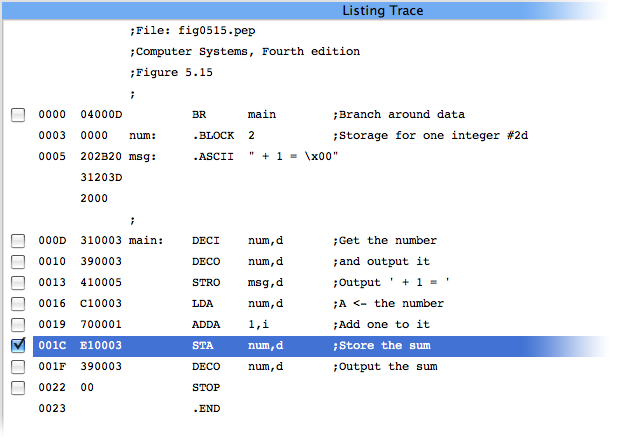
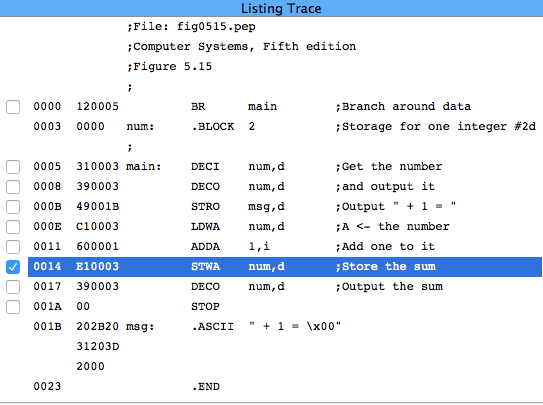
Help figures from Pep/8 to Pep/9.

diff --git a/help/debuggingprograms.html b/help/debuggingprograms.html
@@ -98,7 +98,7 @@ The Operand field in the CPU pane is enclosed in parentheses to emphasize the fa
 <img src="qrc:/help/images/operand.png" alt="operand" hspace=10 vspace=10>
 <p>
  The values in the CPU pane are the values <i>after</i> the instruction in the instruction specifier has executed.
- For example, the values in the above screenshots are the values after the first <code>CHARI</code> executes.
+ For example, the values in the above screenshots are the values after the first <code>LDBA</code> executes.
  In the von Neumann cycle, the program counter increments before the instruction executes.
  So, the value of the program counter is the address of the <i>next</i> instruction to execute.
  In the above screenshot, the program counter is 3, which is the address of the <i>next</i> instruction to execute,
@@ -106,25 +106,25 @@ The Operand field in the CPU pane is enclosed in parentheses to emphasize the fa
 <p>
  As you single step through the program, the Memory Dump pane highlights in red the bytes that have changed,
  and highlights in blue the bytes of the instruction as specified by the program counter.
- The following screenshot shows the Memory Dump pane after the first click of the Single Step button.
+ The following screenshot shows the Memory Dump pane after the second click of the Single Step button.
 <p>
-<img src="qrc:/help/images/fig0434memorydump.png" alt="fig0434memorydump" hspace=10 vspace=10>
+<img src="qrc:/help/images/fig0435memorydump.png" alt="fig0435memorydump" hspace=10 vspace=10>
 <p>
 Each line of the Memory Dump pane displays eight bytes, each byte represented as two hexadecimal digits.
 The address in the first column is the address of the first byte.
 The rightmost column shows the value of the bytes in the row displayed as ASCII characters.
 If the byte is a control character that cannot be displayed, the column depicts the value as a period.
 <p>
-The above screenshot highlights the byte at address 000D in red because the first <code>CHARI</code> instruction
+The above screenshot highlights the byte at address 0013 in red because the first <code>STBA</code> instruction
 input the letter <code>u</code> at that address.
-It hightlights the bytes starting at address 0003 in blue because that is the value of the program counter,
+It hightlights the bytes starting at address 0006 in blue because that is the value of the program counter,
 and those bytes are the instruction that will execute <i>next</i>.
 <p>
 The Memory Dump pane also highlights the top byte of the stack in magenta.
-The following screenshot from Figure 6.1 shows the stack starting at address FBCE just before the <code>ADDSP</code> executes.
+The following screenshot from Figure 6.1 shows the stack starting at address FB8E just before the <code>ADDSP</code> executes.
 <p>
 <img src="qrc:/help/images/fig0601.png" alt="fig0601" hspace=10 vspace=10>
-<p>
+<img src="qrc:/help/images/fig0601dump.png" alt="fig0601dump" hspace=10 vspace=10><p>
  <h4>Switching out of debug mode</h4>
  If you want the program to run to completion, click the Resume button.
  The program will run to completion and exit the debug mode.
@@ -152,7 +152,7 @@ has executed.
 In addition, the Trace pane highlights the instruction specified by the program counter, which is the <i>next</i> instruction
 to be executed.
 The following screenshot shows the Trace pane after five clicks of the Single Step button.
-The <code>LDA</code> instruction has just executed, and the <code>ADDA</code> instruction will execute next.
+The <code>LDWA</code> instruction has just executed, and the <code>ADDA</code> instruction will execute next.
 <p>
 <img src="qrc:/help/images/fig0515listingadda.png" alt="fig0515listingadda" hspace=10 vspace=10>
 <img src="qrc:/help/images/fig0515cpu.png" alt="fig0515cpu" hspace=10 vspace=10>
@@ -161,14 +161,14 @@ The <code>LDA</code> instruction has just executed, and the <code>ADDA</code> in
 <h4>Setting break points</h4>
  Each executable instruction in the Trace pane has a checkbox for setting a break point.
  The following screenshot shows the Trace pane for the program in Figure 5.15 before any statement has been executed.
- The programmer has set a breakpoint at the <code>STA</code> instruction.
+ The programmer has set a breakpoint at the <code>STWA</code> instruction.
 <p>
 <img src="qrc:/help/images/fig0515breakpoint.png" alt="fig0515breakpoint" hspace=10 vspace=10>
 <p>
  When the programmer clicks the Resume button, the program resumes executing until it gets to an instruction with a breakpoint
  or until completion if no breakpoint is encountered.
  The following screenshots show what happens when the Resume button is clicked.
- Note that the <code>STA</code> instruction will execute next if the programmer clicks the Single Step button at this point.
+ Note that the <code>STWA</code> instruction will execute next if the programmer clicks the Single Step button at this point.
  <p>
 <img src="qrc:/help/images/resume.png" alt="resume" hspace=10 vspace=10>
 <img src="qrc:/help/images/fig0515resumed.png" alt="fig0515resumed" hspace=10 vspace=10>
@@ -210,9 +210,9 @@ If your program does not include trace tags, the memory trace pane will not be v
 You can still use the debugger to single-step through your program and set break points.
 If it does include trace tags, but errors are detected in the tags, a blue warning will be issued.
 You can still run your program and use the debugger, but the memory trace pane will not be visible.
-The screenshot below shows what happens if you make an error in one of the trace tags in the program from Figure 5.26.
+The screenshot below shows what happens if you make an error in one of the trace tags in the program from Figure 5.27.
 <p>
-<img src="qrc:/help/images/fig518tracetagwarning.png" alt="fig518tracetagwarning" hspace=10 vspace=10>
+<img src="qrc:/help/images/fig0527tracetagwarning.png" alt="fig0527tracetagwarning" hspace=10 vspace=10>
 <p>
 If your program does include trace tags and they have no errors, the memory trace will automatically become visible
 below the listing trace pane.

diff --git a/help/writingtraphandlers.html b/help/writingtraphandlers.html
@@ -23,8 +23,8 @@ Reference: <i>Computer Systems</i>, Chapter 8, Section 8.2.
 <p>
  A trap instruction executes as if it were a single machine language instruction wired into the instruction set of the CPU.
  However, it really executes a <i>sequence</i> of machine language instructions that are initiated by the hardware trap mechanism.
- The Pep/9 operating system provides one nonunary trap instruction, <code>NOP</code> and four unary trap instructions,
- <code>NOP0</code>, <code>NOP1</code>, <code>NOP2</code>, and <code>NOP3</code>, so you can reprogram them to implement
+ The Pep/9 operating system provides two unary trap instructions, <code>NOP0</code> and <code>NOP1</code>, and five nonunary trap instructions,
+ <code>NOP</code>, <code>DECI</code>, <code>DECO</code>, <code>HEXO</code>, and <code>STRO</code>, so you can reprogram them to implement
   instructions of your own choosing.
 <p>
  <a name = "Topics">Topics:</a>
@@ -37,8 +37,8 @@ To modify the operating system for the problems in Chapter 8 of the text is a si
 <p>
 <h4>Step 1.</h4>
 Decide on your mnemonic for your new instruction.
-It will replace one of <code>NOP0</code>, <code>NOP1</code>, <code>NOP2</code>, <code>NOP3</code>,
-<code>NOP</code>, <code>DECI</code>, <code>DECO</code>, or <code>STRO</code>.
+It will replace one of <code>NOP0</code>, <code>NOP1</code>,
+<code>NOP</code>, <code>DECI</code>, <code>DECO</code>, <code>HEXO</code>, or <code>STRO</code>.
 Select the menu option System->Redefine Mnemonics to change the mnemonics of one of the instructions.
 The dialog box requires you to enter a mnemonic and its allowed addressing modes if it is nonunary.
 For example, change the mnemonic for the unary instruction <code>NOP0</code> to <code>ECHO</code>.
@@ -49,7 +49,7 @@ For example, change the mnemonic for the unary instruction <code>NOP0</code> to 
 In this Help system in the pane on the left, select Pep/9 Operating System, and then click the Copy to Source button.
 The default operating system will be copied to the Source Code pane.
 <p>
-<img src="qrc:/help/images/pep8oshelpsystem.png" alt="pep8oshelpsystem" hspace=10 vspace=10>
+<img src="qrc:/help/images/pep9oshelpsystem.png" alt="pep9oshelpsystem" hspace=10 vspace=10>
 <p>
 <h4>Step 3.</h4>
 Modify the trap handler part of the operating system to implement your new instruction.
@@ -93,17 +93,21 @@ The assembler also assumes that the ROM will be installed at the bottom of memor
 It therefore calculates tha addresses for the symbol table such that the last byte generated will have the address specified
 by the burn directive.
 <p>
-Pep/9 is a 16-bit computer, and can therfore access 2<sup>16</sup> = 64KB = 65,536 bytes of main memory.
+Pep/9 is a 16-bit computer, and can therfore access 2<sup>16</sup> = 64 KiB = 65,536 bytes of main memory.
 The Pep/9 operating system contains <code>.BURN 0xFFFF</code> because <code>0xFFFF</code> is the address of the 65,536th byte.
 <p>
 It is possible to install a smaller amount of memory in the Pep/9 system.
 Simply change the burn directive in the operating system to a smaller value.
 For example, you can change the burn directive to <code>.BURN 0x7FFF</code>, assemble and install the new OS,
-and the system will install only 32KB of memory instead of 64KB.
+and the system will install only 32 KiB of memory instead of 64 KiB.
 <p>
 <img src="qrc:/help/images/modifieddotburn.png" alt="modifieddotburn" hspace=10 vspace=10>
 <p>
 The trap handlers all run correctly, which you can trace in the Memory Dump pane.
+Following is the memory dump after the execution of a <code>DECI</code> trap instruction.
+A trap stores the ten bytes of the process control block on the system stack, indicated by the ten red bytes in the memory dump.
+Note that 31, the instruction specifier for <code>DECI</code>, at the bottom of the stack is at address 7C0E.
+With 64 KiB of memory installed, it would be at address FC0E.
 <p>
 <img src="qrc:/help/images/relocatedos.png" alt="relocatedos" hspace=10 vspace=10>
 <p>

diff --git a/help/assemblylanguage.html b/help/assemblylanguage.html
@@ -98,11 +98,11 @@ To execute the program select Build -> Execute from the menu.
 If your program assembles correctly but there is an error in your trace tags, a trace tag warning is displayed.
 For example, here is what happens if you make an error in one of the trace tags in the program from Figure 5.27.
 <p>
-<img src="qrc:/help/images/fig0519tracetagwarning.png" alt="fig0519tracetagwarning" hspace=10 vspace=10>
+<img src="qrc:/help/images/fig0527tracetagwarning.png" alt="fig0527tracetagwarning" hspace=10 vspace=10>
 <p>
 Programs with trace tag warnings have assembled correctly and will still run.
 In the debugger, you can still single step through the program, set break points, and trace memory in the Memory Dump pane.
-However, the symbolic trace feature that shows the C++ memory model graphically in the Memory Trace pane is disabled until
+However, the symbolic trace feature that shows the C memory model graphically in the Memory Trace pane is disabled until
 you fix the trace tag error and reassemble your program.
 <p>
 <a href="#Topics">Scroll to topics</a>.

diff --git a/helpdialog.cpp b/helpdialog.cpp
@@ -242,7 +242,7 @@ void HelpDialog::onCurrentItemChanged(QTreeWidgetItem*, QTreeWidgetItem*) {
             else if (row == eFIG527) {
                 ui->leftTextEdit->setText(Pep::resToString(":/help/figures/fig0527.pep"));
                 ui->rightCppTextEdit->setText(Pep::resToString(":/help/figures/fig0527.c"));
-                ui->figureLabel->setText("<b>Figure 5.27</b><code>  </code> C++ constants.");
+                ui->figureLabel->setText("<b>Figure 5.27</b><code>  </code> C constants.");
                 ui->rightCppTextEdit->show();
                 ui->rightPepTextEdit->hide();
             }
